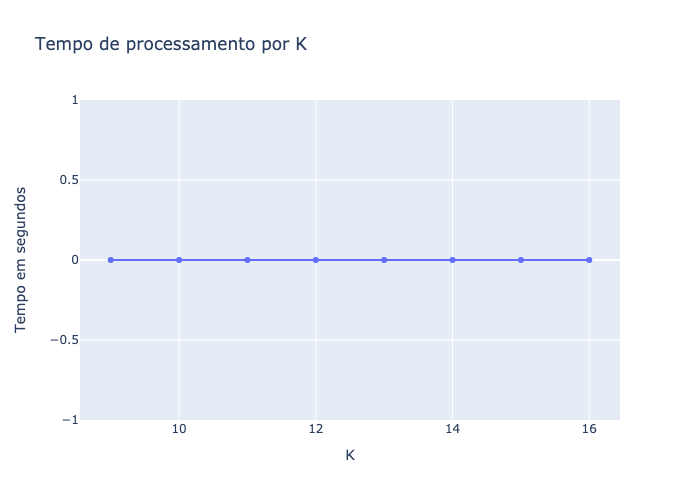
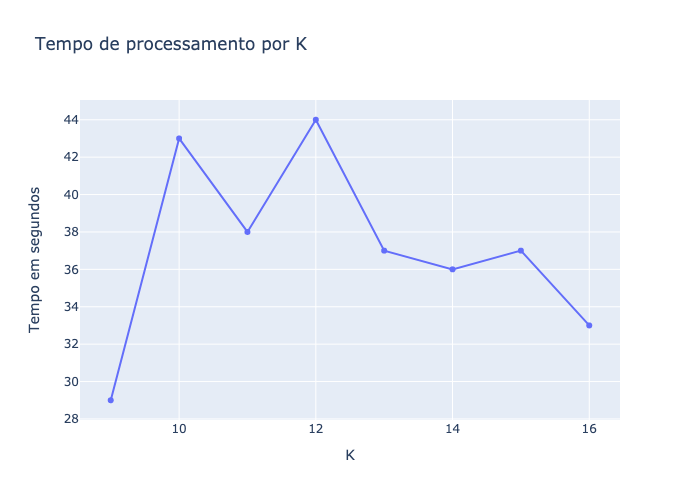
feat: generate proper graphs and adjust compression indices

diff --git a/src/lzw.py b/src/lzw.py
@@ -17,21 +17,19 @@ class LZW:
         self.compressed_message: list = []
 
     def init_code_dictionary(self, k, file_type) -> Dict:
-        dictionary_size = pow(2, k)
+        dictionary_size = 256
         dictionary = {}
         for i in range(dictionary_size):
-            dictionary[i.to_bytes(
-                get_number_of_bytes_necessary_for_number(i, file_type), 'big')] = i
+            dictionary[i.to_bytes(1, 'big')] = i
 
         return dictionary
 
     def init_decode_dictionary(self, k, file_type) -> Dict:
-        dictionary_size = pow(2, k)
+        dictionary_size = 256
         dictionary = {}
 
         for i in range(dictionary_size):
-            dictionary[f'{i}'] = i.to_bytes(
-                get_number_of_bytes_necessary_for_number(i, file_type), 'big')
+            dictionary[f'{i}'] = i.to_bytes(1, 'big')
         return dictionary
 
     def compress(self, data, file_name, k):
@@ -46,7 +44,7 @@ class LZW:
         self.compressed_message = compressor_response["message"]
 
         compressed_file.write(struct.pack(
-            f">{'I'*len(self.compressed_message)}", *self.compressed_message))
+            f">{'H'*len(self.compressed_message)}", *self.compressed_message))
         compressed_file.close()
         print(
             f"\nSIZE AFTER COMPRESSION: {os.path.getsize(f'./data/large_inputs/compression/{file_name}.bin')}")
@@ -85,7 +83,7 @@ if __name__ == '__main__':
 
     if command == '-c':
         compressed_ratio_values, time_values, indices_used_values = [], [], []
-        for dictionary_size in range(16, 17):
+        for dictionary_size in range(9, 17):
             with open(f"{file_path}/{file_name}", 'rb') as input_file:
                 input_file_size = os.path.getsize(f"{file_path}/{file_name}")
                 print(
@@ -109,13 +107,11 @@ if __name__ == '__main__':
             file_bytes = input_file.read()
             print(len(file_bytes))
             bytes_to_string_list = struct.unpack(
-                f">{'I'*(round(len(file_bytes)/4))}", file_bytes)
+                f">{'H'*(round(len(file_bytes)/2))}", file_bytes)
             decoded_message = lzw.decompress(
                 data=bytes_to_string_list, k=int(16), file_name=file_name)
 
             print("ORIGINAL DECODED MESSAGE -> ", len(decoded_message))
-            print("DECODED MESSAGE SLIGHTLY SMALLER -> ",
-                  len(decoded_message[:-8]))
             file_for_decoded_message = open(
                 file=f'./data/large_inputs/decompression/{file_name}',
                 mode='wb'

diff --git a/src/compressor.py b/src/compressor.py
@@ -26,26 +26,23 @@ class Compressor():
             next_symbol = encode_data(self.data, idx + 1)
             concatenated_symbols = concat_symbols(symbol, next_symbol)
 
-            while concatenated_symbols in self.dictionary:
+            while concatenated_symbols in self.dictionary and idx < message_size:
                 idx += 1
                 progress_bar.update(1)
                 symbol = concatenated_symbols
-                if idx < message_size:
-                    if concatenated_symbols not in self.dictionary and len(self.dictionary) < self.k:
-                        self.dictionary[concatenated_symbols] = current_dictionary_value
+
+                if concatenated_symbols not in self.dictionary and current_dictionary_value < self.k:
+                    self.dictionary[concatenated_symbols] = current_dictionary_value
+                    current_dictionary_value += 1
                     encoded_message.append(
                         symbol_to_latin_encode(symbol, self.dictionary))
-                    concatenated_symbols = concat_symbols(
-                        symbol, encode_data(self.data, idx + 1))
-                else:
-                    encoded_message.append(
-                        symbol_to_latin_encode(symbol, self.dictionary))
-                    break
+                concatenated_symbols = concat_symbols(
+                    symbol, encode_data(self.data, idx + 1))
 
             if concatenated_symbols not in self.dictionary:
-                if len(self.dictionary) < self.k:
+                if current_dictionary_value < self.k:
                     self.dictionary[concatenated_symbols] = current_dictionary_value
-                current_dictionary_value += 1
+                    current_dictionary_value += 1
                 encoded_message.append(
                     symbol_to_latin_encode(symbol, self.dictionary))
                 if idx == message_size - 1:
@@ -55,7 +52,7 @@ class Compressor():
             idx += 1
 
             progress_bar.update(1)
-
+        print("CURRENT DICTIONARY VALUE ", current_dictionary_value)
         elapsed_time = progress_bar.format_interval(
             progress_bar.format_dict["elapsed"])
 

diff --git a/src/utils/compressor/encode_data.py b/src/utils/compressor/encode_data.py
@@ -1,2 +1,4 @@
 def encode_data(data, idx):
+    if idx >= len(data):
+        idx = len(data) - 1
     return str(data[idx]).encode('latin_1')
